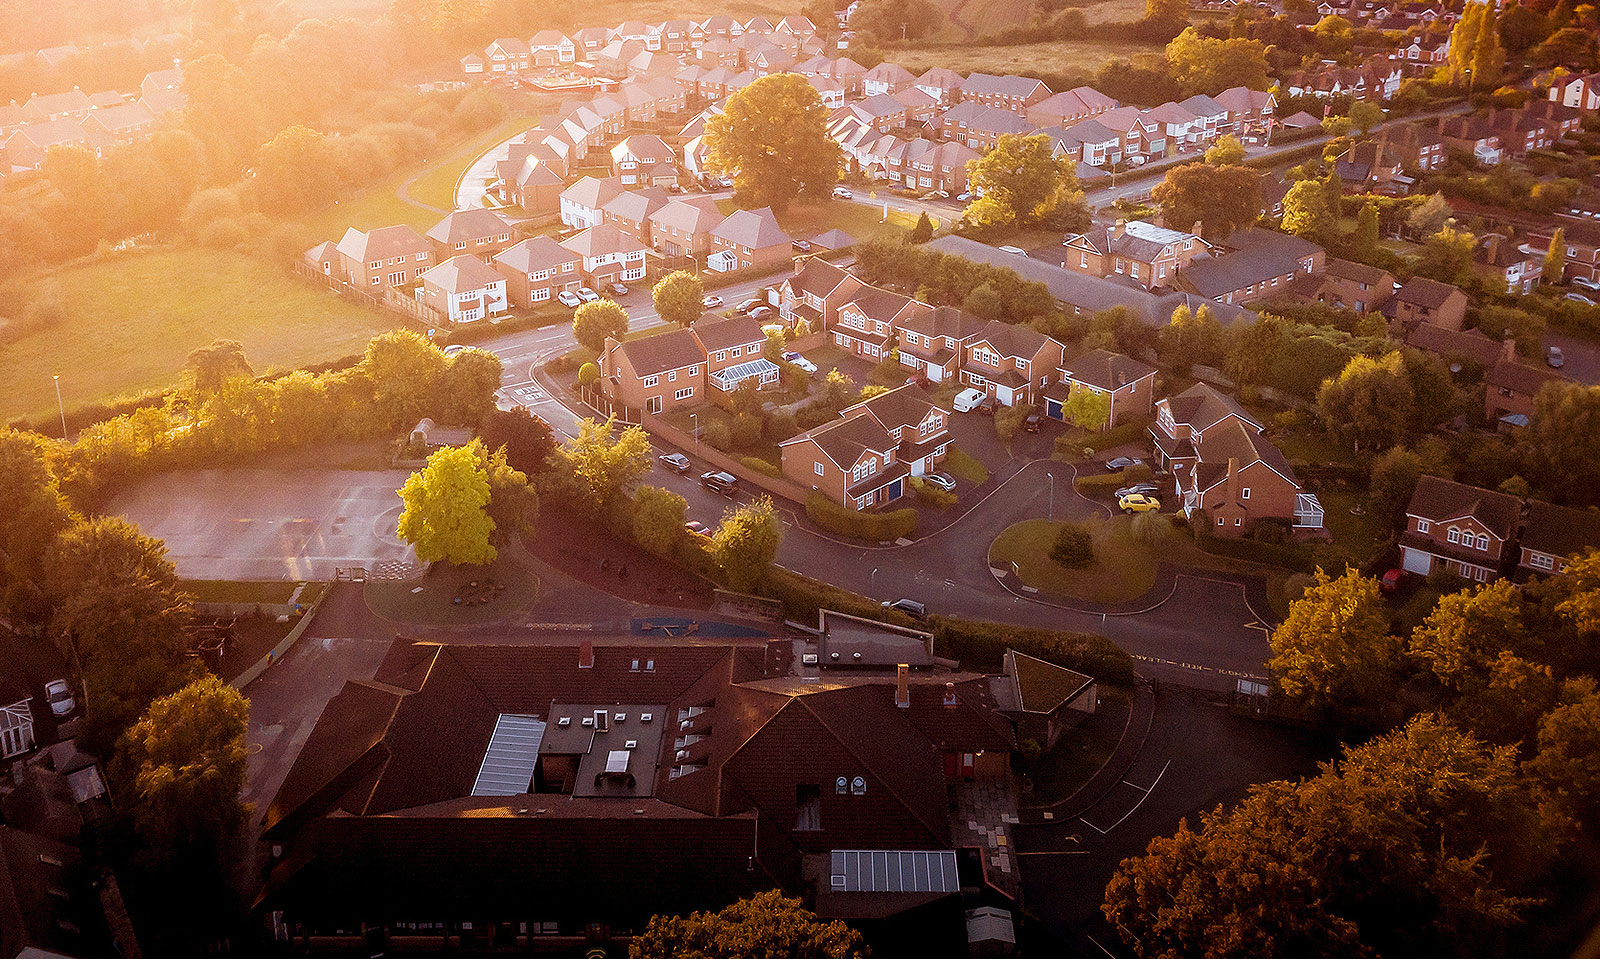
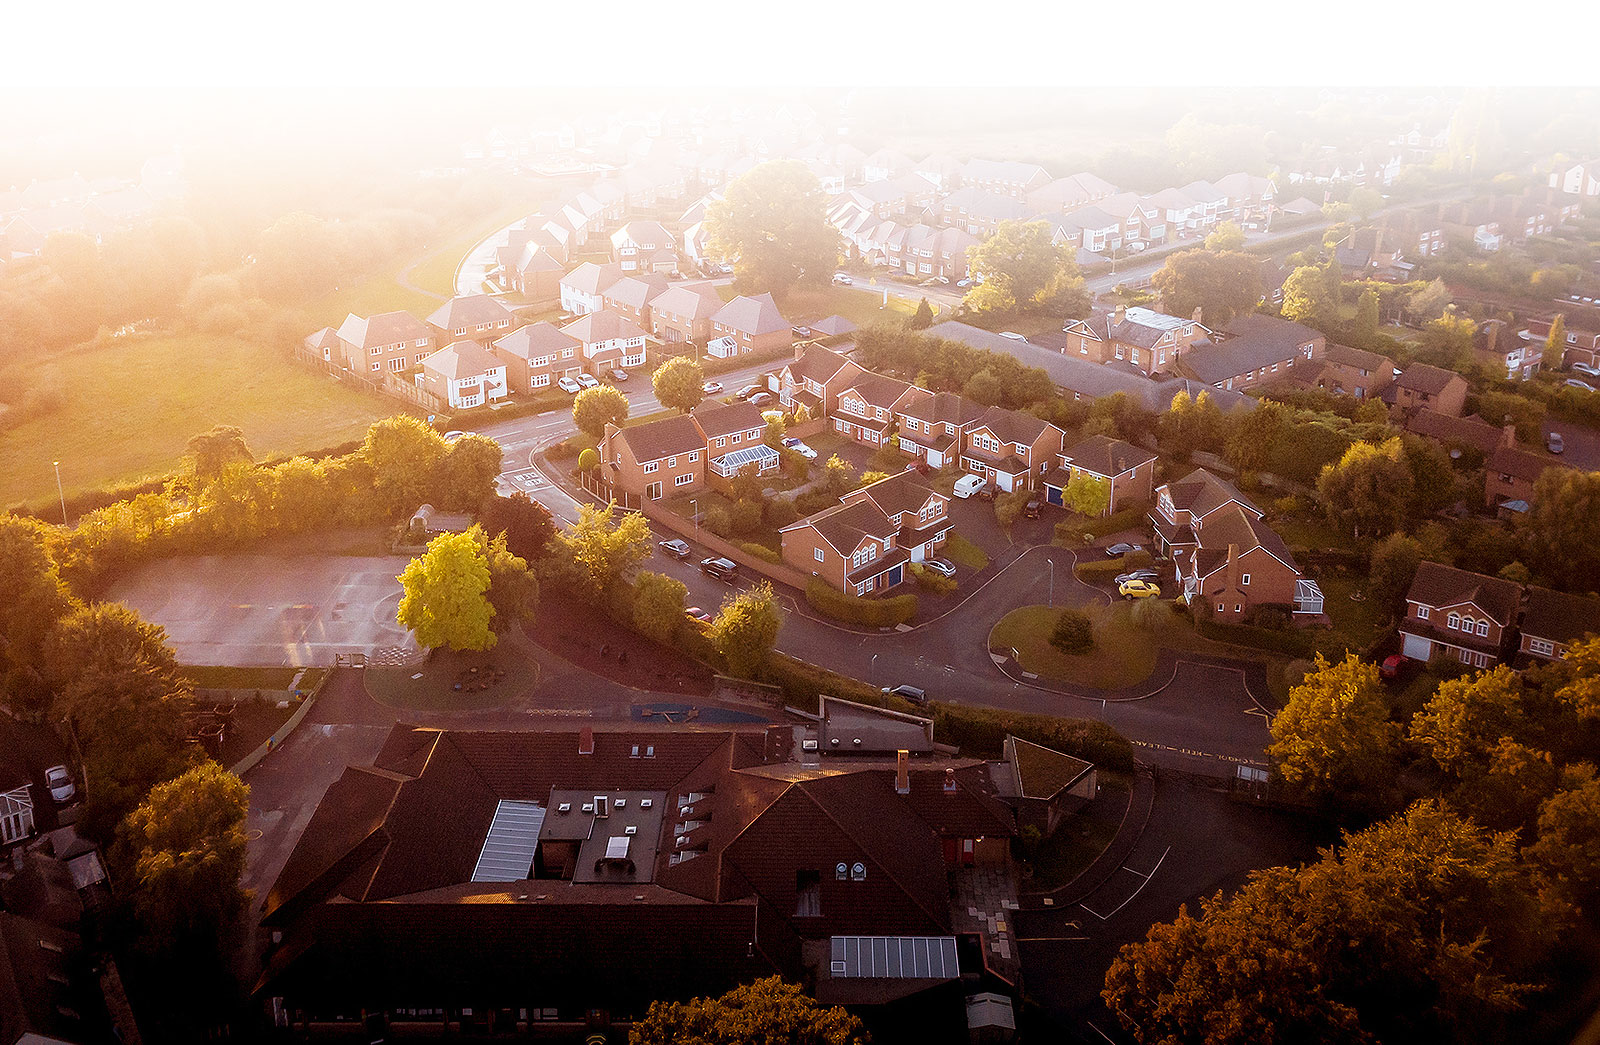
ezek work

diff --git a/wp-content/themes/yourmodelrealestate.com/style.css b/wp-content/themes/yourmodelrealestate.com/style.css
@@ -897,11 +897,47 @@ img {
 /* Featured-areas start */
 
 .hp-featured-areas {
+    position: relative;
+    z-index: 1;
     padding: 122px 0 56px 0;
 }
 
 .hp-featured-areas img {
     width: 100%;
+}
+
+.feature-areas-item {
+    position: relative;
+}
+.feature-areas-item:hover {
+    content: '';
+    position: absolute;
+    width: 100%;
+    height: 100%;
+    top: 0;
+    left: 0;
+    background: rgba(78,51,98,.72);
+    transform: scale(.5);
+    opacity: 0;
+    z-index: 1;
+    -webkit-transition: all 0.4s ease-in-out;
+    -moz-transition: all 0.4s ease-in-out;
+    -o-transition: all 0.4s ease-in-out;
+    transition: all 0.4s ease-in-out;
+}
+
+.hp-featured-areas::before {
+    content: '';
+    position: absolute;
+    top: 0;
+    background: url(images/fa-bg-img.jpg) no-repeat;
+    background-position: center;
+    background-size: cover;
+    height: 100%;
+    width: 100%;
+    filter: grayscale(100%);
+    pointer-events: none;
+    opacity: 0.23;
 }
 
 .comp-featured-areas-container .featured-areas-item a {
@@ -1403,6 +1439,7 @@ img {
 
 .hp-featured-videos .feature-slick-video {
     position: relative;
+
 }
 
 .feature-slick-video::before {
@@ -1413,7 +1450,7 @@ img {
     top: 0;
     bottom: 0;
     left: -110px;
-    background: red;
+    background: #c6b792;
     display: flex;
     align-items: center;
     justify-content: center;
@@ -1437,7 +1474,7 @@ img {
     height: 100%;
     max-height: 46px;
     content: '';
-    z-index: -1;
+    z-index: 1;
 
 }
 
@@ -1451,7 +1488,7 @@ img {
     height: 100%;
     max-height: 80px;
     content: '';
-    z-index: -1;
+    z-index: 1;
 
 }
 .comp-featured-videos-container {
